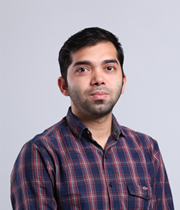
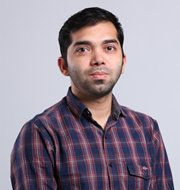
fix: reorder + photo fix

diff --git a/src/app/team/page.tsx b/src/app/team/page.tsx
@@ -276,46 +276,16 @@ export default function TeamPage() {
 
       <section
         className="sec-talks sched-page-body team-page-body"
-        id="team-oc"
-      >
-        <div className="container">
-          <div className="reveal">
-            <span className="sec-tag">FILE: Organizing Committee</span>
-            <h2 className="sec-heading">
-              ORGANIZING
-              <br />
-              COMMITTEE
-            </h2>
-            <p className="talks-sub">
-              {allOcMembers.length} members across {ocSubsections.length}{" "}
-              domains powering every moment of Induction 2026.
-            </p>
-          </div>
-
-          <TeamHScrollTrack>
-            {allOcTrackColumns.map((column) => (
-              <HScrollColumn key={column.columnKey} column={column} />
-            ))}
-          </TeamHScrollTrack>
-        </div>
-      </section>
-
-      <section
-        className="sec-talks sched-page-body team-page-body team-page-body--ink"
         id="team-sa"
       >
         <div className="container">
           <div className="reveal">
-            <span className="sec-tag sec-tag--light">
-              FILE: Student Affairs
-            </span>
-            <h2 className="sec-heading sec-heading--light">
-              <span className="team-adjective team-adjective--light">
-                Sovereign
-              </span>
+            <span className="sec-tag">FILE: Student Affairs</span>
+            <h2 className="sec-heading">
+              <span className="team-adjective">Sovereign</span>
               SA OFFICE
             </h2>
-            <p className="talks-sub team-talks-sub--light">
+            <p className="talks-sub">
               The institutional backbone of every student-led initiative at IIIT
               Delhi. Steadfast, capable, essential.
             </p>
@@ -368,6 +338,38 @@ export default function TeamPage() {
           </div>
         </div>
       </section>
+
+      <section
+        className="sec-talks sched-page-body team-page-body team-page-body--ink"
+        id="team-oc"
+      >
+        <div className="container">
+          <div className="reveal">
+            <span className="sec-tag sec-tag--light">
+              FILE: Organizing Committee
+            </span>
+            <h2 className="sec-heading sec-heading--light">
+              <span className="team-adjective team-adjective--light">
+                Tireless
+              </span>
+              ORGANIZING
+              <br />
+              COMMITTEE
+            </h2>
+            <p className="talks-sub team-talks-sub--light">
+              {allOcMembers.length} members across {ocSubsections.length}{" "}
+              domains powering every moment of Induction 2026.
+            </p>
+          </div>
+
+          <TeamHScrollTrack lightVariant>
+            {allOcTrackColumns.map((column) => (
+              <HScrollColumn key={column.columnKey} column={column} isLight />
+            ))}
+          </TeamHScrollTrack>
+        </div>
+      </section>
+
       <section
         className="sec-talks sched-page-body team-page-body"
         id="team-leads"

diff --git a/src/app/globals.css b/src/app/globals.css
@@ -4004,10 +4004,10 @@ section {
   font-family: var(--ff-mono);
   font-size: 8px;
   letter-spacing: 2px;
-  background: var(--ink);
-  color: var(--paper);
+  background: var(--paper);
+  color: var(--ink);
   padding: 3px 9px;
-  border: 1px solid var(--ink);
+  border: 1px solid var(--paper);
   text-transform: uppercase;
 }
 
@@ -4062,13 +4062,13 @@ section {
   grid-template-columns: repeat(4, 1fr);
   gap: 0;
   margin-top: 48px;
-  border-top: 2px solid rgba(244, 240, 232, 0.2);
-  border-left: 2px solid rgba(244, 240, 232, 0.2);
+  border-top: 2px solid rgba(26, 26, 26, 0.15);
+  border-left: 2px solid rgba(26, 26, 26, 0.15);
 }
 
 .sa-card {
-  border-right: 2px solid rgba(244, 240, 232, 0.2);
-  border-bottom: 2px solid rgba(244, 240, 232, 0.2);
+  border-right: 2px solid rgba(26, 26, 26, 0.15);
+  border-bottom: 2px solid rgba(26, 26, 26, 0.15);
   display: flex;
   flex-direction: column;
 }
@@ -4086,7 +4086,7 @@ section {
   display: grid;
   grid-template-rows: auto auto 1fr auto;
   padding: 18px 20px 20px;
-  border-top: 2px solid rgba(244, 240, 232, 0.2);
+  border-top: 2px solid rgba(26, 26, 26, 0.15);
   gap: 0;
 }
 
@@ -4101,7 +4101,7 @@ section {
   font-family: var(--ff-ser);
   font-size: 12px;
   font-style: italic;
-  color: var(--lime);
+  color: var(--orange);
   letter-spacing: 0.3px;
   margin-bottom: 6px;
   display: block;
@@ -4111,7 +4111,7 @@ section {
   font-family: var(--ff-disp);
   font-size: 20px;
   letter-spacing: 1px;
-  color: var(--paper);
+  color: var(--ink);
   line-height: 1.05;
   margin-bottom: 8px;
 }
@@ -4568,7 +4568,7 @@ section {
     gap: 32px;
   }
 
-  .team-cta-btn {
+  team-adjective .team-cta-btn {
     width: 100%;
     text-align: center;
   }